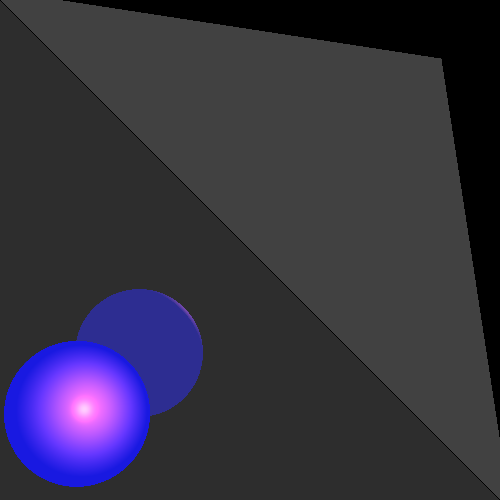
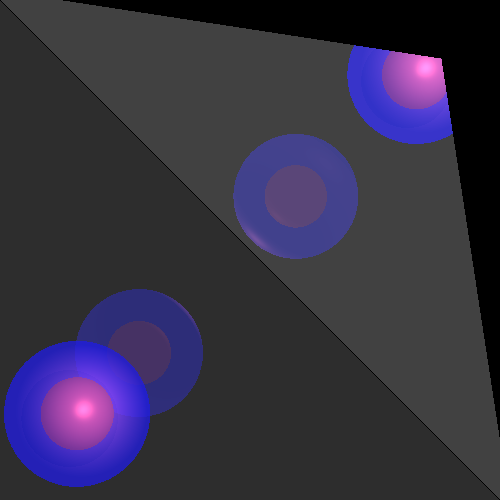
finish ex7

Changed region(s): [[0.0, 0.57, 0.42, 0.99], [0.45, 0.27, 0.72, 0.54], [0.69, 0.09, 0.93, 0.3]]

diff --git a/src/renderer/RayTracerBasic.java b/src/renderer/RayTracerBasic.java
@@ -168,7 +168,7 @@ public class RayTracerBasic extends RayTracer {
         if (-alignZero(r.dotProduct(rayDirection)) <= 0) {
             return Double3.ZERO;
         }
-        return material.getKs().scale(Math.pow(-alignZero(r.dotProduct(rayDirection)), material.getnShininess()));
+        return material.getKs().scale(Math.pow(-alignZero(r.dotProduct(rayDirection)), material.getShininess()));
     }
 
     /**
@@ -197,9 +197,9 @@ public class RayTracerBasic extends RayTracer {
         Vector lightDirectionFromGeoPointToLightSource = lightDirection.scale(-1);
         Ray lightRay;
         if (nv < 0) {
-            lightRay = new Ray(geoPoint.point, normal, lightDirectionFromGeoPointToLightSource);
+            lightRay = new Ray(geoPoint.point, lightDirectionFromGeoPointToLightSource, normal);
         } else {
-            lightRay = new Ray(geoPoint.point, normal.scale(-1), lightDirectionFromGeoPointToLightSource);
+            lightRay = new Ray(geoPoint.point, lightDirectionFromGeoPointToLightSource, normal.scale(-1));
         }
         double maxDistance = lightSource.getDistance(geoPoint.point);
         List<GeoPoint> intersections = scene.getGeometries().findGeoIntersections(lightRay, maxDistance);

diff --git a/src/primitives/Material.java b/src/primitives/Material.java
@@ -1,12 +1,19 @@
 package primitives;
 
 public class Material {
+
+    /**
+     * @member Kd - Diffuse component
+     * @member Ks - Specular component
+     * @member Kr - Reflection component
+     * @member Kt - Transparency component
+     * @member Shininess - material's shininess level
+     */
     private Double3 Kd = Double3.ZERO;
     private Double3 Ks = Double3.ZERO;
     private Double3 Kr = Double3.ZERO;
     private Double3 Kt = Double3.ZERO;
-
-    private int nShininess = 0;
+    private int Shininess = 0;
 
     public Material setKd(double kd) {
         this.Kd = new Double3(kd);
@@ -64,12 +71,12 @@ public class Material {
         return this.Kt;
     }
 
-    public Material setShininess(int nShininess) {
-        this.nShininess = nShininess;
+    public Material setShininess(int Shininess) {
+        this.Shininess = Shininess;
         return this;
     }
 
-    public int getnShininess() {
-        return this.nShininess;
+    public int getShininess() {
+        return this.Shininess;
     }
 }

diff --git a/src/scene/Scene.java b/src/scene/Scene.java
@@ -1,10 +1,8 @@
 package scene;
 
 import geometries.Geometries;
-import lighting.AmbientLight;
-import lighting.LightSource;
-import primitives.Color;
-import primitives.Double3;
+import lighting.*;
+import primitives.*;
 
 import java.util.LinkedList;
 import java.util.List;
@@ -28,7 +26,7 @@ public class Scene {
     public static class SceneBuilder {
         private final String name;
         private Color background = Color.BLACK;
-        private AmbientLight ambientLight = new AmbientLight(Color.BLACK, new Double3(1, 1, 1));
+        private AmbientLight ambientLight = new AmbientLight(Color.BLACK, Double3.ONE);
         private Geometries geometries = new Geometries();
         private List<LightSource> lights = new LinkedList<>();
 

diff --git a/src/primitives/Ray.java b/src/primitives/Ray.java
@@ -9,6 +9,9 @@ public class Ray {
 
     final private Point p0;
     final private Vector direction;
+    /**
+     * DELTA is a constant value that defines how much the ray's origin should be moved
+     */
     private static final double DELTA = 0.1;
 
     public Ray(Point p0, Vector direction) {
@@ -39,7 +42,7 @@ public class Ray {
             throw new IllegalArgumentException("normal cannot be null");
         }
 
-        this.p0 = p0.add(normal.scale(DELTA));
+        this.p0 = p0.add(normal.scale(normal.dotProduct(direction) > 0 ? DELTA : -DELTA));
         this.direction = direction.normalize();
     }
 
